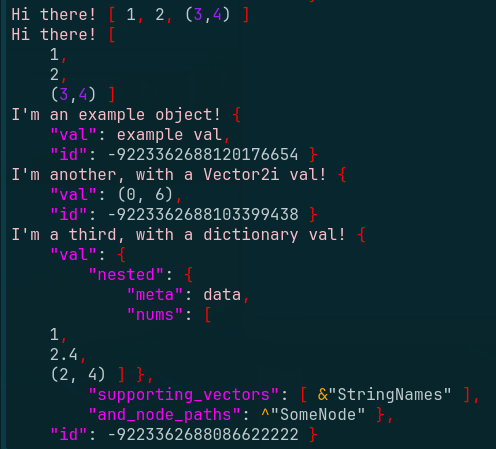
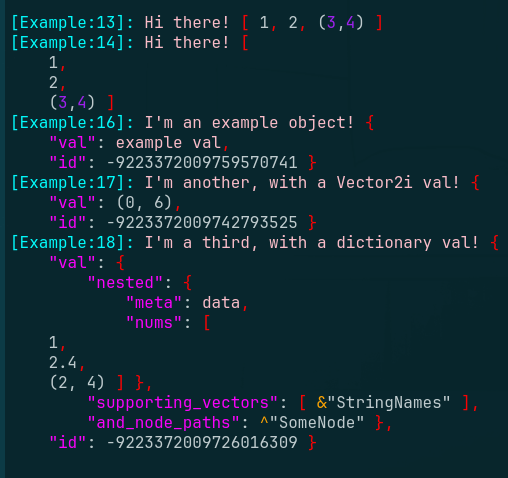
docs: cover call-site prefixes

diff --git a/readme.md b/readme.md
@@ -14,10 +14,23 @@ are intended as drop-in replacements for `print(...)`.
 
 This is very useful while developing, because your printed output is much more readable.
 
+#### Colorized output
+
 The colorized output really shines when showing nested data structures (`Arrays`
 and `Dictionaries`), but it's also very useful for other gdscript primitives,
 like `Vectors`, `NodePaths`, and `StringNames`. Support for more types is easily
 added, feel free to create an issue!
+
+#### Call-site prefixes
+
+Log's print functions will prefix the output with the name of the script the log
+comes from, including the line number.
+
+!> This call-site feature is really nice! Unfortunately it can only be used
+during development - it depends on `get_stack()`, which is not available in
+production builds or at `@tool` script time.
+
+#### Opt-in via duck-typing
 
 You can opt-in to pretty-printing in your classes by implementing
 `to_printable()`, which Log will pickup via duck-typing.
@@ -33,24 +46,49 @@ func _ready():_
 ```
 
 
-## Example script and output
+### Example script and output
 
-Checkout [src/Example.gd](src/Example.gd) for this code.
+Checkout [src/Example.gd](https://github.com/russmatney/log/blob/main/src/Example.gd) for this code.
 
-`Log.pr()` colorizes and prints the passed data structures.
+`Log.pr()` colorizes and prints passed arguments, including recursively digging
+into Arrays and Dictionaries.
 
 ![`Log.pr()` should Just Work in most (all?) cases](/docs/assets/example_gd_impl.png)
 
-`Log.pr()` should Just Work in most (all?) cases
+`Log.pr()` should Just-Work in most (all?) cases.
 
 You can opt-in to pretty printing in your objects by implementing
 `to_printable()`,
 which gets picked up by Log's static method via duck-typing.
 
-![output of Example.gd](./docs/assets/example_gd_output.png)
+![output of Example.gd](/docs/assets/example_gd_output.png)
 
 This makes dictionaries and arrays much more readable at a glance, which speeds
 up debugging and reduces eye-strain.
+
+Compare the above output with the usual from `print(...)`:
+
+![output with only print statements](/docs/assets/example_print_output.png)
+
+# Public API
+
+- `Log.pr(...)`, `Log.info(...)`, `Log.log(...)`
+  - pretty-print without newlines
+- `Log.prn(...)`
+  - pretty-print with newlines
+- `Log.warn(...)`
+  - pretty-print without newlines AND push a warning via `push_warning`
+- `Log.err(...)`, `Log.error(...)`
+  - pretty-print without newlines AND push a error via `push_error`
+
+?> These functions all take up to 7 args.
+We could support more, but you can also just pass an Array or a Dictionary if you
+need more args right away.
+
+?> `Log.warn()` and `Log.err()` are nice because push_warning and push_error on
+their own do not let you see warnings/errors in the same context as your usual
+`print()` statements.
+
 
 ## godot printing resources
 
@@ -59,4 +97,3 @@ up debugging and reduces eye-strain.
 - print_rich
   supported colors: `black`, `red`, `green`, `yellow`, `blue`, `magenta`, `pink`, `purple`, `cyan`, `white`, `orange`, `gray`
   supported tags: `b`, `i`, `u`, `s`, `indent`, `code`, `url`, `center`, `right`, `color`, `bgcolor`, `fgcolor`
-

diff --git a/docs/README.md b/docs/README.md
@@ -12,10 +12,23 @@ are intended as drop-in replacements for `print(...)`.
 
 This is very useful while developing, because your printed output is much more readable.
 
+#### Colorized output
+
 The colorized output really shines when showing nested data structures (`Arrays`
 and `Dictionaries`), but it's also very useful for other gdscript primitives,
 like `Vectors`, `NodePaths`, and `StringNames`. Support for more types is easily
 added, feel free to create an issue!
+
+#### Call-site prefixes
+
+Log's print functions will prefix the output with the name of the script the log
+comes from, including the line number.
+
+!> This call-site feature is really nice! Unfortunately it can only be used
+during development - it depends on `get_stack()`, which is not available in
+production builds or at `@tool` script time.
+
+#### Opt-in via duck-typing
 
 You can opt-in to pretty-printing in your classes by implementing
 `to_printable()`, which Log will pickup via duck-typing.
@@ -30,3 +43,46 @@ func _ready():_
     Log.pr(self) # colorized `{"val": 12}`
 ```
 
+
+### Example script and output
+
+Checkout [src/Example.gd](https://github.com/russmatney/log/blob/main/src/Example.gd) for this code.
+
+`Log.pr()` colorizes and prints passed arguments, including recursively digging
+into Arrays and Dictionaries.
+
+![`Log.pr()` should Just Work in most (all?) cases](/assets/example_gd_impl.png)
+
+`Log.pr()` should Just-Work in most (all?) cases.
+
+You can opt-in to pretty printing in your objects by implementing
+`to_printable()`,
+which gets picked up by Log's static method via duck-typing.
+
+![output of Example.gd](/assets/example_gd_output.png)
+
+This makes dictionaries and arrays much more readable at a glance, which speeds
+up debugging and reduces eye-strain.
+
+Compare the above output with the usual from `print(...)`:
+
+![output with only print statements](/assets/example_print_output.png)
+
+### Public API
+
+- `Log.pr(...)`, `Log.info(...)`, `Log.log(...)`
+  - pretty-print without newlines
+- `Log.prn(...)`
+  - pretty-print with newlines
+- `Log.warn(...)`
+  - pretty-print without newlines AND push a warning via `push_warning`
+- `Log.err(...)`, `Log.error(...)`
+  - pretty-print without newlines AND push a error via `push_error`
+
+?> These functions all take up to 7 args.
+We could support more, but you can also just pass an Array or a Dictionary if you
+need more args right away.
+
+?> `Log.warn()` and `Log.err()` are nice because push_warning and push_error on
+their own do not let you see warnings/errors in the same context as your usual
+`print()` statements.
